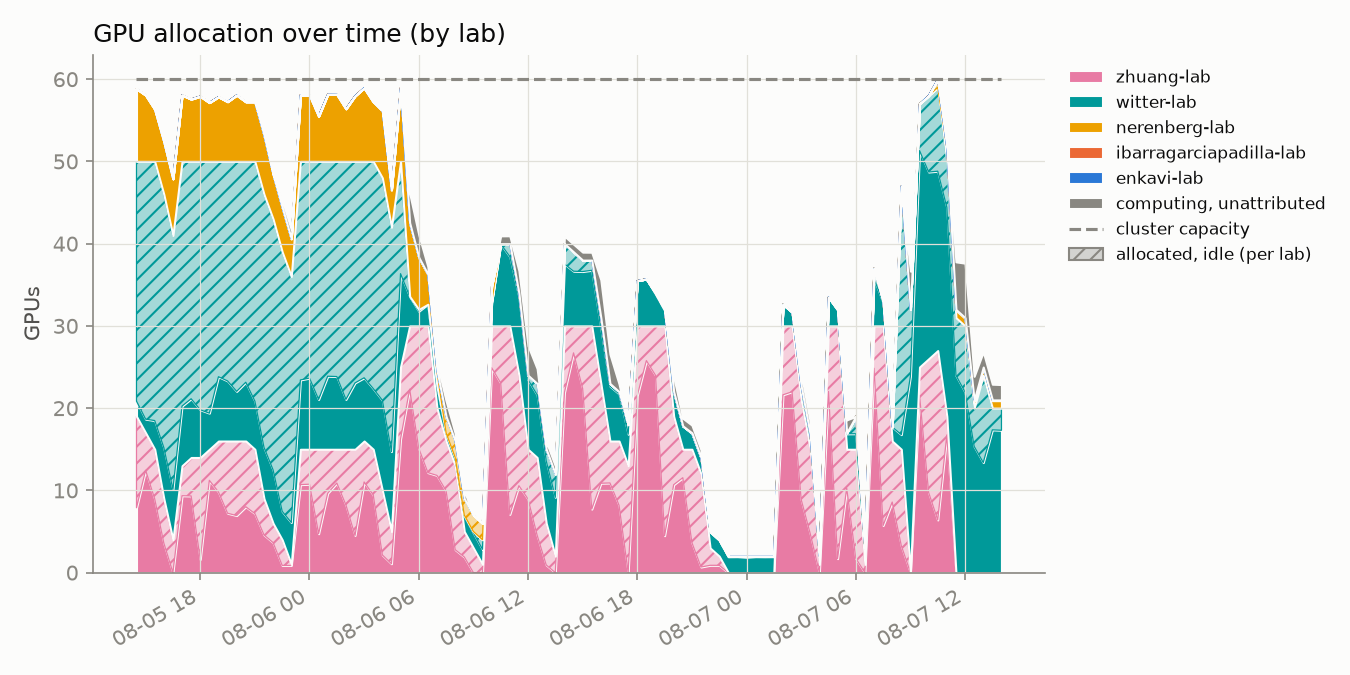
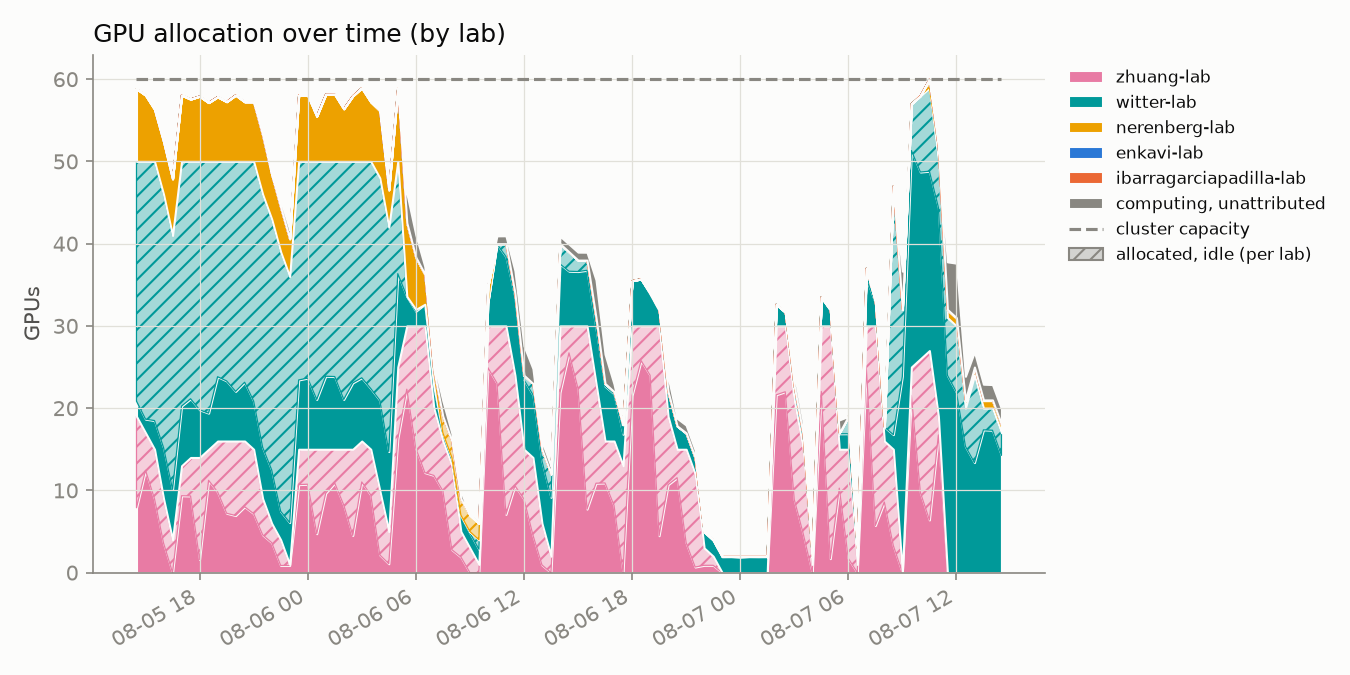
update 2026-08-07T14:30:01-07:00

diff --git a/README.md b/README.md
@@ -2,8 +2,8 @@
 
 Automated GPU/CPU/queue utilization tracker for `hopper.cluster`, updated every 30 minutes by cron. Usernames are anonymized to a stable per-account pseudonym; lab names are real.
 
-Last updated: 2026-08-07T14:00:16-07:00
-Samples: 96 queue snapshots, 96 GPU snapshots
+Last updated: 2026-08-07T14:30:15-07:00
+Samples: 97 queue snapshots, 97 GPU snapshots
 
 ## Resources
 
@@ -16,8 +16,8 @@ Samples: 96 queue snapshots, 96 GPU snapshots
 
 ## Headline
 
-- **54.4%** of the cluster's 60 GPUs allocated, averaged across all samples
-- **45.8%** average `nvidia-smi` utilization *when* a GPU is allocated to a job
+- **54.1%** of the cluster's 60 GPUs allocated, averaged across all samples
+- **46.0%** average `nvidia-smi` utilization *when* a GPU is allocated to a job
 - **86.7%** average cgroup CPU utilization *when* a CPU is allocated to a job
 
 ## Per lab / per user
@@ -26,14 +26,14 @@ Samples: 96 queue snapshots, 96 GPU snapshots
 <tr><th>Lab</th><th>User</th><th align='right'>GPU-hours allocated</th><th align='right'>CPU-hours allocated</th><th align='right'>GPU utilization</th></tr>
 <tr style='background-color:#fbebf1'><td>zhuang-lab</td><td>user-0db9ced0</td><td align='right'>722.0</td><td align='right'>722.0</td><td align='right'>48%</td></tr>
 <tr style='background-color:#d8efef'><td>witter-lab</td><td>user-d58f5a15</td><td align='right'>467.5</td><td align='right'>3740.0</td><td align='right'>9%</td></tr>
-<tr style='background-color:#d8efef'><td>witter-lab</td><td>user-554c620c</td><td align='right'>332.5</td><td align='right'>726.5</td><td align='right'>67%</td></tr>
+<tr style='background-color:#d8efef'><td>witter-lab</td><td>user-554c620c</td><td align='right'>341.0</td><td align='right'>745.5</td><td align='right'>67%</td></tr>
 <tr style='background-color:#fcf0d8'><td>nerenberg-lab</td><td>user-6bb5f332</td><td align='right'>40.0</td><td align='right'>200.0</td><td align='right'>71%</td></tr>
-<tr style='background-color:#fcf0d8'><td>nerenberg-lab</td><td>user-fedb5feb</td><td align='right'>4.0</td><td align='right'>35.5</td><td align='right'>48%</td></tr>
-<tr style='background-color:#fcf0d8'><td>nerenberg-lab</td><td>user-b12dc074</td><td align='right'>0.0</td><td align='right'>16.0</td><td align='right'>—</td></tr>
-<tr style='background-color:#fce8e0'><td>ibarragarciapadilla-lab</td><td>user-3cfc41a3</td><td align='right'>0.0</td><td align='right'>3607.5</td><td align='right'>—</td></tr>
-<tr style='background-color:#fce8e0'><td>ibarragarciapadilla-lab</td><td>user-dad71a72</td><td align='right'>0.0</td><td align='right'>6.0</td><td align='right'>—</td></tr>
+<tr style='background-color:#fcf0d8'><td>nerenberg-lab</td><td>user-fedb5feb</td><td align='right'>4.5</td><td align='right'>36.0</td><td align='right'>47%</td></tr>
 <tr style='background-color:#fce8e0'><td>ibarragarciapadilla-lab</td><td>user-eec7ffae</td><td align='right'>0.0</td><td align='right'>426.5</td><td align='right'>—</td></tr>
-<tr style='background-color:#dfeaf8'><td>enkavi-lab</td><td>user-c21bdaa4</td><td align='right'>0.0</td><td align='right'>62.0</td><td align='right'>—</td></tr>
+<tr style='background-color:#fcf0d8'><td>nerenberg-lab</td><td>user-b12dc074</td><td align='right'>0.0</td><td align='right'>16.0</td><td align='right'>—</td></tr>
+<tr style='background-color:#fce8e0'><td>ibarragarciapadilla-lab</td><td>user-dad71a72</td><td align='right'>0.0</td><td align='right'>6.0</td><td align='right'>—</td></tr>
+<tr style='background-color:#dfeaf8'><td>enkavi-lab</td><td>user-c21bdaa4</td><td align='right'>0.0</td><td align='right'>64.0</td><td align='right'>—</td></tr>
+<tr style='background-color:#fce8e0'><td>ibarragarciapadilla-lab</td><td>user-3cfc41a3</td><td align='right'>0.0</td><td align='right'>3622.5</td><td align='right'>—</td></tr>
 </table>
 
 ## Usage over time
@@ -44,7 +44,7 @@ Samples: 96 queue snapshots, 96 GPU snapshots
 
 Solid = utilized by lab, hatched = allocated but idle, gray = usage not traceable to a lab, dashed line = cluster capacity.
 
-Attribution combines `nvidia-smi`'s process listing with Slurm's GPU-to-job binding record; the latter caught **2344** readings the former missed.
+Attribution combines `nvidia-smi`'s process listing with Slurm's GPU-to-job binding record; the latter caught **2359** readings the former missed.
 
 ## Queue
 
@@ -56,13 +56,13 @@ Attribution combines `nvidia-smi`'s process listing with Slurm's GPU-to-job bind
 
 ![CPU usage vs GPU usage, decayed](assets/cpu_gpu_usage.png)
 
-One point per user per snapshot (n=471), usage decayed on Slurm's ~7-day fairshare half-life.
+One point per user per snapshot (n=476), usage decayed on Slurm's ~7-day fairshare half-life.
 
 **GPU usage doesn't count toward priority on this cluster** (`TRESBillingWeights`/`PriorityWeightTRES` unset) - watch the **upper-left**: low CPU usage (high priority) with high GPU usage.
 
 ## Recommendations
 
-1. **Weight GPU usage in fairshare.** `TRESBillingWeights` and `PriorityWeightTRES` are both unset right now, so Slurm's fairshare score only sees CPU-seconds - a job holding 4 idle L40S GPUs costs nothing in priority as long as it isn't also holding CPUs. That's the exact failure mode the scatter above is built to catch (upper-left: low CPU usage, high GPU usage). Fix: `scontrol update partition=main TRESBillingWeights=CPU=1.0,GRES/gpu=<weight>` (or set `PriorityWeightTRES` cluster-wide), then `scontrol reconfigure` - a full `slurmctld` restart also works but drops in-flight priority state. A reasonable starting point for `<weight>` is the CPUs-per-GPU ratio on a GPU node (128 CPUs / 4 GPUs = 32), so one GPU costs as much fairshare as the CPU share it displaces; tune from there against next week's headline numbers (54.4% allocated, 45.8% utilized when allocated, as of this snapshot). The weight value itself is a policy call - loop in whoever owns cluster allocation policy before changing it.
+1. **Weight GPU usage in fairshare.** `TRESBillingWeights` and `PriorityWeightTRES` are both unset right now, so Slurm's fairshare score only sees CPU-seconds - a job holding 4 idle L40S GPUs costs nothing in priority as long as it isn't also holding CPUs. That's the exact failure mode the scatter above is built to catch (upper-left: low CPU usage, high GPU usage). Fix: `scontrol update partition=main TRESBillingWeights=CPU=1.0,GRES/gpu=<weight>` (or set `PriorityWeightTRES` cluster-wide), then `scontrol reconfigure` - a full `slurmctld` restart also works but drops in-flight priority state. A reasonable starting point for `<weight>` is the CPUs-per-GPU ratio on a GPU node (128 CPUs / 4 GPUs = 32), so one GPU costs as much fairshare as the CPU share it displaces; tune from there against next week's headline numbers (54.1% allocated, 46.0% utilized when allocated, as of this snapshot). The weight value itself is a policy call - loop in whoever owns cluster allocation policy before changing it.
 
 2. **Escalate on sustained low utilization** (see table and scatter above). Right now the clearest candidate is `user-d58f5a15` in `witter-lab`: 467.5 GPU-hours allocated at 9% average utilization, i.e. roughly 424 GPU-hours that sat idle instead of going to someone in the queue. Turning that into an automated escalation needs two decisions made up front: a utilization threshold (something like under 20% mean utilization over at least 50 allocated GPU-hours is a defensible starting bar - loose enough to skip short debugging runs, tight enough to catch parked allocations) and a grace period (how many consecutive low-utilization snapshots before it counts as "sustained" rather than a momentary lull between batches). Once those are set, the mechanism can be either soft (a bot that reads `data/gpu_samples.jsonl` and reminds the user/lab by email or Slack) or hard (a Slurm-side QOS penalty, e.g. `sacctmgr modify qos <qos> set Priority-=<n>`, applied after N consecutive offending snapshots). Neither exists yet - today the table and scatter above are a read-only signal, not an enforced policy.
 
